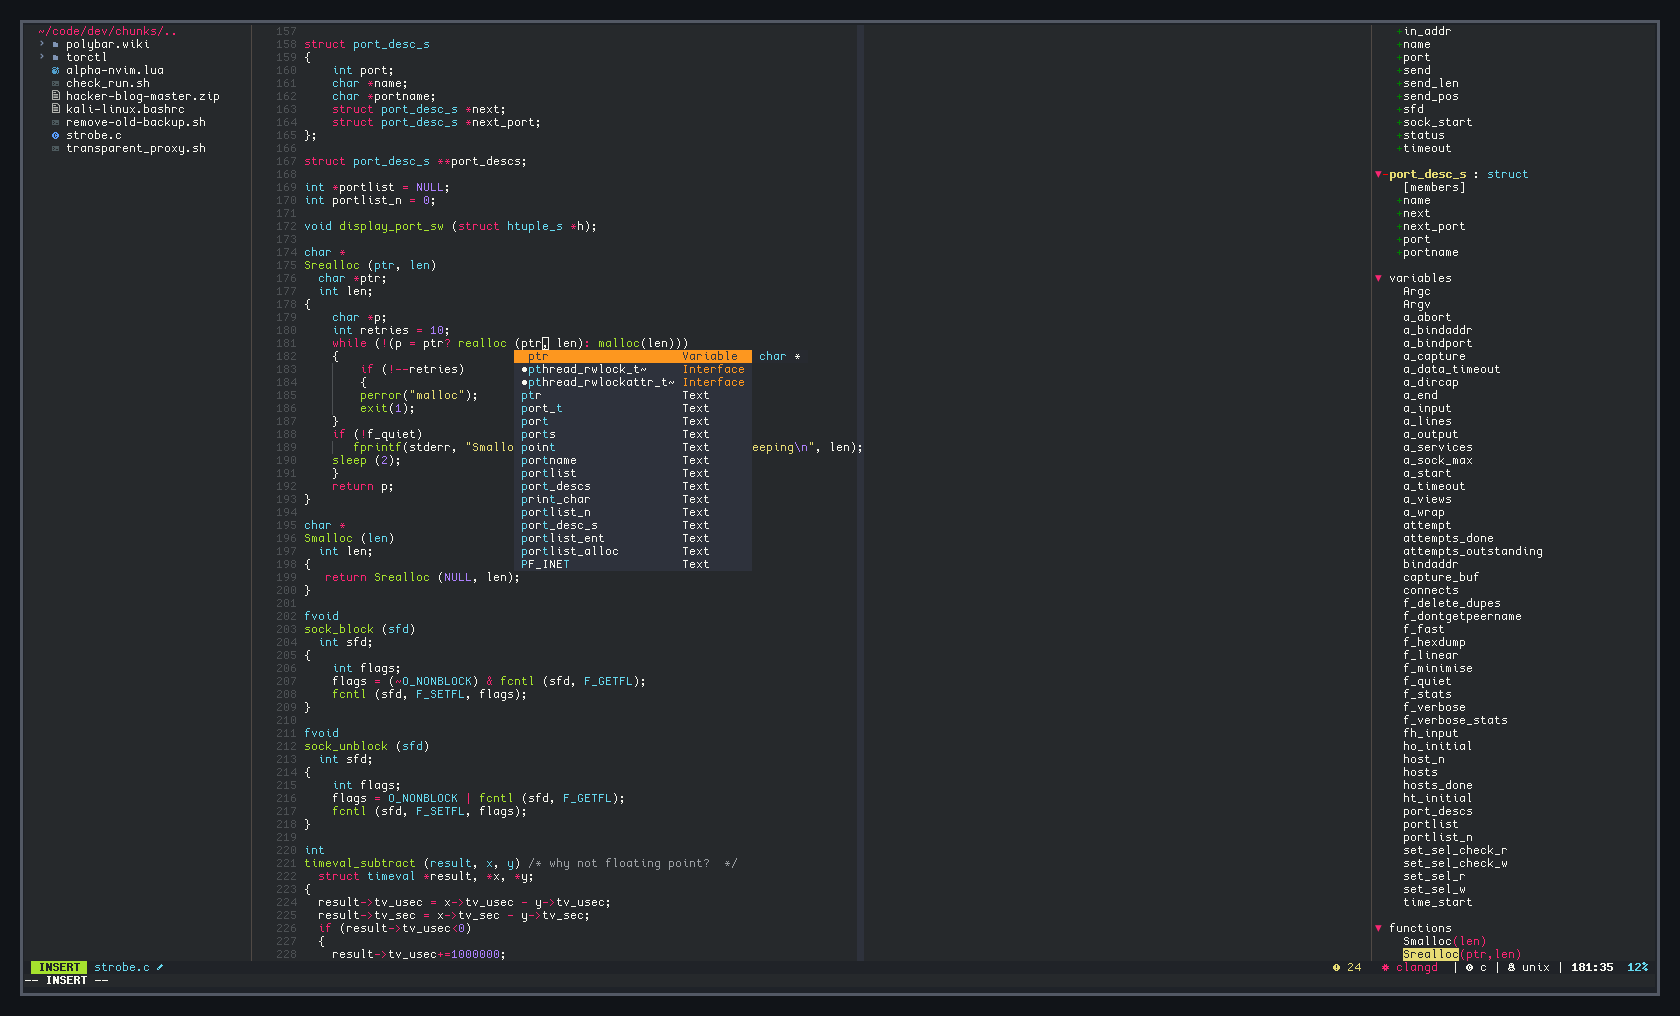
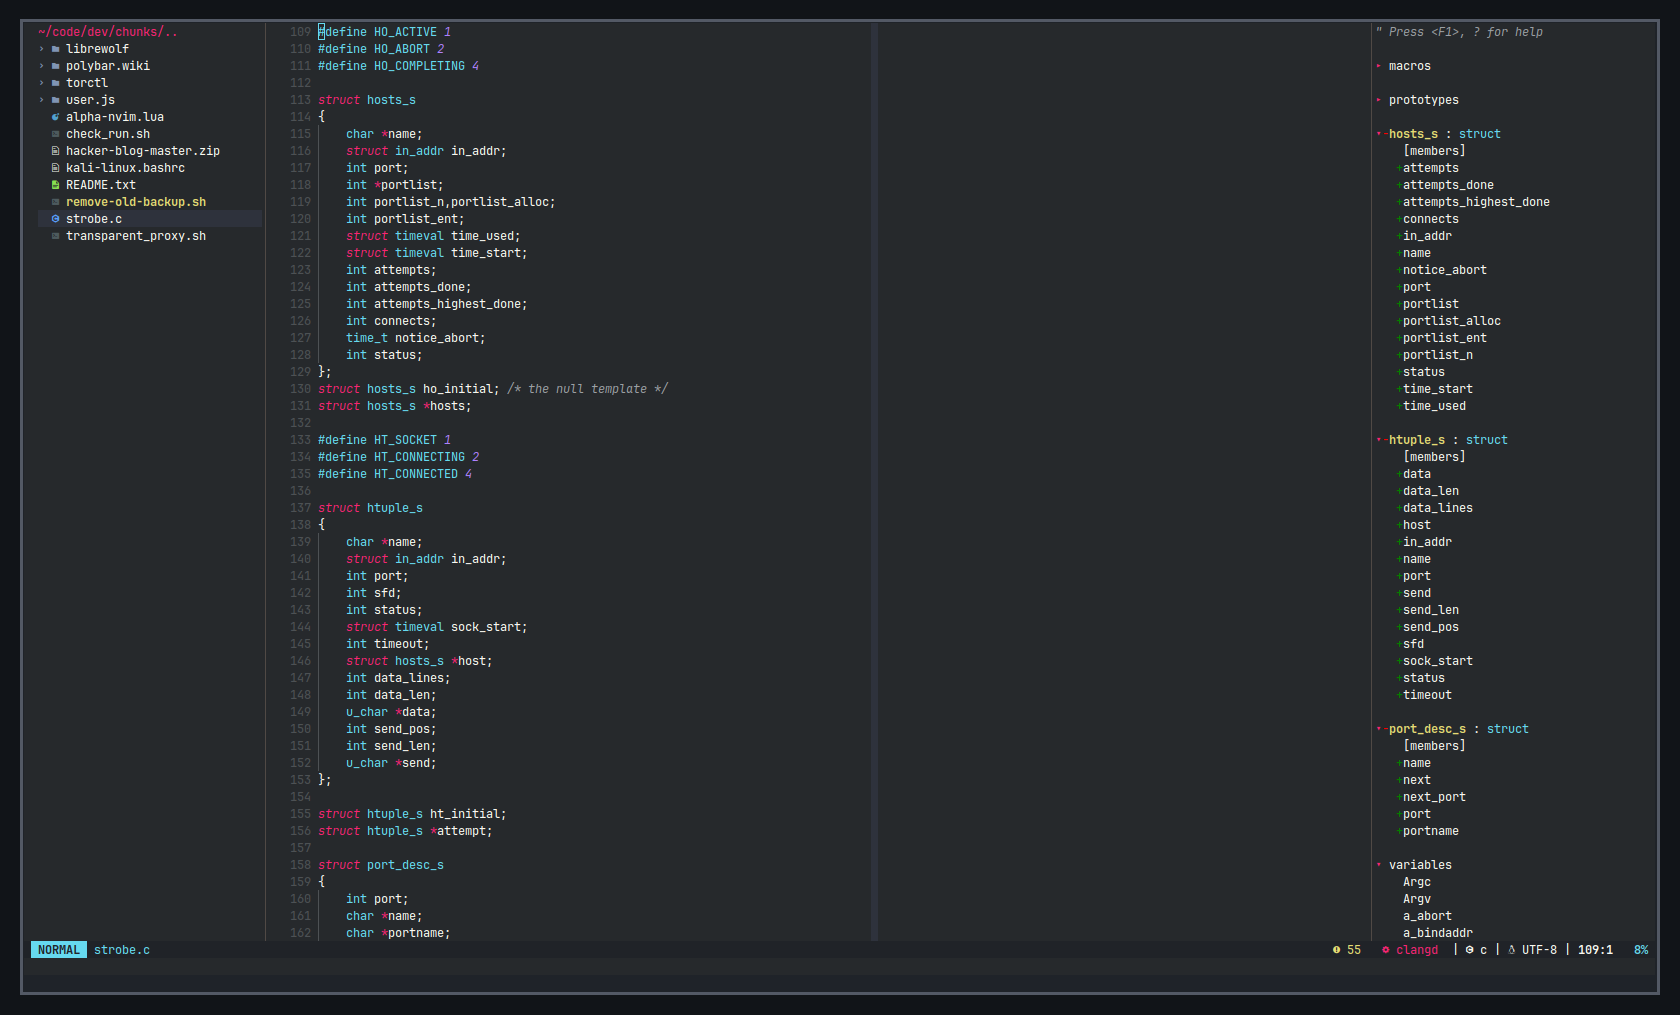
Update README, update screenshots

diff --git a/README.md b/README.md
@@ -100,7 +100,7 @@ See: https://github.com/nanotee/nvim-lua-guide#where-to-put-lua-files
 
 1. Install [Neovim v0.8.x](https://github.com/neovim/neovim/releases/latest).
 
-2. Install [Nerd Fonts](https://www.nerdfonts.com/font-downloads), (for the font of the screenshots install [Cozette Font](https://github.com/slavfox/Cozette)).
+2. Install [Nerd Fonts](https://www.nerdfonts.com/font-downloads), (the font of the screenshots are 'JetBrainsMono Nerd Font').
 
 3. Install [Node.js - npm](https://docs.npmjs.com/downloading-and-installing-node-js-and-npm) for download packages of LSP language servers, see: [LSP Configuration](#lsp-configuration).
 
